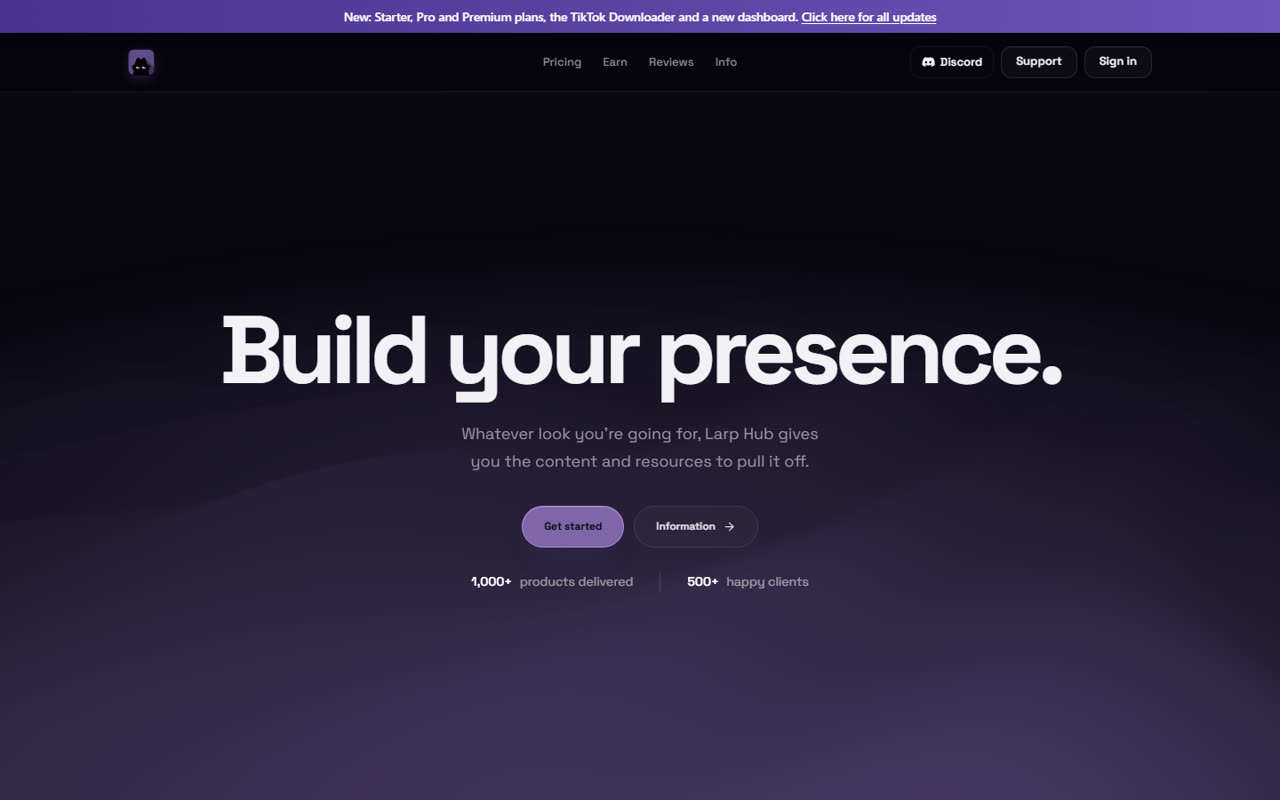
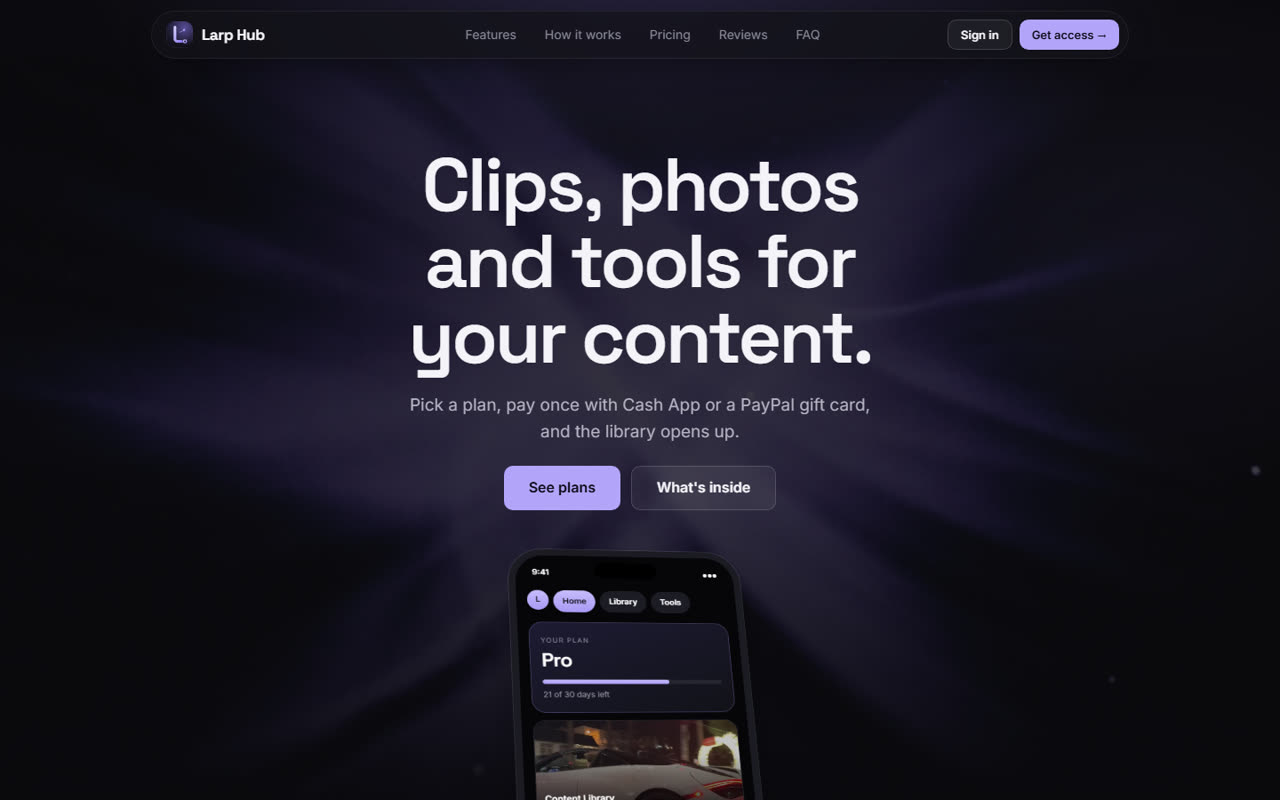
Expand about, remove age, add busy note and contact form (not live yet), update Larp Hub screenshot

diff --git a/index.html b/index.html
@@ -101,6 +101,32 @@ section{padding:96px 0}
 .orders .btn{border-color:var(--paper);background:var(--paper);color:var(--ink)}
 .orders .btn:hover{background:#e6e4dd}
 
+/* contact + form */
+.contact{display:grid;grid-template-columns:.85fr 1.15fr;gap:48px;margin-top:70px;align-items:start}
+.cinfo h2{font-size:clamp(2.2rem,4.6vw,3.4rem);line-height:1.02;letter-spacing:-.02em;margin:14px 0 16px}
+.cinfo h2 em{font-style:italic;color:var(--mute)}
+.cinfo p{color:#3a3936;margin-bottom:24px}
+.note{margin-top:28px;padding:18px 20px;border:1px solid var(--line);border-radius:16px;background:var(--card);color:var(--mute);font-size:.9rem}
+.note b{display:block;color:var(--ink);font-weight:600;margin-bottom:4px}
+.cform{background:var(--card);border:1px solid var(--line);border-radius:24px;padding:30px;display:grid;gap:18px;position:relative}
+.live{display:inline-flex;align-items:center;gap:8px;justify-self:start;padding:6px 12px;border-radius:999px;background:var(--soft);color:var(--mute)}
+.live i{width:7px;height:7px;border-radius:50%;background:#c58b1c}
+.cform .grid{display:grid;grid-template-columns:1fr 1fr;gap:18px}
+.cform label{display:block;font-size:.88rem;font-weight:500}
+.cform label input,.cform label select,.cform label textarea{display:block;margin-top:7px}
+.cform label span{color:#b4462f}
+.cform input,.cform select,.cform textarea{width:100%;font:inherit;font-weight:400;font-size:.95rem;color:var(--ink);background:var(--paper);border:1px solid var(--line);border-radius:12px;padding:12px 14px;outline:0;transition:border-color .15s,background .15s}
+.cform textarea{resize:vertical;min-height:52px}
+.cform input:focus,.cform select:focus,.cform textarea:focus{border-color:var(--ink);background:#fff}
+.cform .bad{border-color:#b4462f}
+.biz{display:grid;gap:18px;padding:18px;border:1px dashed var(--line);border-radius:16px}
+.biz[hidden]{display:none}
+.ferr{color:#b4462f;font-size:.86rem;min-height:1.2em;margin:-6px 0}
+.cform button{justify-self:start}
+.fdone{padding:20px;border-radius:16px;background:var(--soft)}
+.fdone b{display:block;font-weight:600}
+.fdone p{color:var(--mute);margin:6px 0 16px;font-size:.92rem}
+
 footer{padding:40px 0 50px;color:var(--mute);font-size:.86rem}
 footer .wrap{display:flex;justify-content:space-between;gap:20px;flex-wrap:wrap;border-top:1px solid var(--line);padding-top:28px}
 footer nav{display:flex;gap:22px}
@@ -111,7 +137,8 @@ footer a:hover{color:var(--ink)}
 
 @media(max-width:860px){
   .links{display:none}
-  .hero,.about,.work{grid-template-columns:1fr}
+  .hero,.about,.work,.contact{grid-template-columns:1fr}
+  .contact{gap:32px;margin-top:50px}
   .hero{gap:36px}
   .portrait{max-width:320px}
   .do{grid-template-columns:1fr}
@@ -123,6 +150,8 @@ footer a:hover{color:var(--ink)}
   .stats div+div{border-left:0;border-top:1px solid var(--line)}
   .stats div{padding:24px 4px}
   .nav .btn{padding:9px 14px;font-size:.84rem}
+  .cform{padding:20px}
+  .cform .grid{grid-template-columns:1fr}
 }
 @media(prefers-reduced-motion:reduce){*{transition:none!important}.rv{opacity:1;transform:none}html{scroll-behavior:auto}}
 </style>
@@ -157,17 +186,18 @@ footer a:hover{color:var(--ink)}
 
   <div class="wrap stats rv">
     <div><b>2 years</b><span>of experience in the web space</span></div>
-    <div><b>Age 15</b><span>when I ran my first business</span></div>
-    <div><b>$10,000+</b><span>generated by that business</span></div>
+    <div><b>$10,000+</b><span>generated by a business I ran</span></div>
+    <div><b>Multiple</b><span>websites in progress right now</span></div>
   </div>
 
   <section id="about">
     <div class="wrap about rv">
       <div><span class="mono dim">About</span><h2 class="serif">A builder <em>first.</em></h2></div>
       <div class="body">
-        <p>I've spent the last two years working on the web: designing sites, writing code and building brands. Everything I make is built from scratch, without templates.</p>
-        <p>I started early. At 15 I was running my own business, and it generated over $10,000. That taught me what a website actually needs to do for a brand: look right, load fast and bring people in.</p>
-        <p>Today I work across websites, code and brand growth, and I run Larp Hub.</p>
+        <p>I've spent the last two years working on the web: designing sites, writing code and building brands. Everything I make is built from scratch, without templates, so each project fits the brand it's for.</p>
+        <p>Before this, I ran my own business, and it generated over $10,000. Running it taught me what a website actually needs to do for a brand: look right, load fast, earn trust and bring people in. I build with that in mind.</p>
+        <p>I do a lot of different things. Design, front-end and back-end code, the systems behind a brand, and the growth side once it's live. I'd rather understand the whole picture than hand off half of it.</p>
+        <p>Right now I'm in the middle of creating multiple websites, including my own brand, Larp Hub. My schedule is busy and I keep it strict, so I take on new work carefully and only when I can give it proper attention.</p>
       </div>
     </div>
   </section>
@@ -191,8 +221,8 @@ footer a:hover{color:var(--ink)}
         <div>
           <span class="mono dim">Brand / larphub.tech</span>
           <h3>Larp Hub</h3>
-          <p>A content platform with a photo and video library, prompts, tools and a private community.</p>
-          <ul><li>Designed and built from scratch</li><li>Dashboard, libraries and tools</li><li>Run and grown by me</li></ul>
+          <p>Clips, photos and tools for content creators, with simple plans and a members' dashboard.</p>
+          <ul><li>Designed and built from scratch</li><li>Plans, dashboard, library and tools</li><li>Run and grown by me</li></ul>
           <a class="btn line" href="https://larphub.tech" target="_blank" rel="noopener">Visit larphub.tech &#8599;</a>
         </div>
       </div>
@@ -205,9 +235,95 @@ footer a:hover{color:var(--ink)}
         <div>
           <span class="mono">Website orders</span>
           <h2 class="serif">Not open yet. <em>Coming soon.</em></h2>
-          <p>I'm not selling websites right now, but I will be. Reach out on Discord if you'd like to be first to know when orders open.</p>
+          <p>I'm not selling websites right now, but I will be. I'm currently building multiple websites, so my time is limited and my schedule is strict.</p>
         </div>
-        <a class="btn" href="https://discord.com/users/1495161901330464801" target="_blank" rel="noopener">Message me on Discord &#8599;</a>
+        <a class="btn" href="#form">Fill out the contact form &#8595;</a>
+      </div>
+
+      <div class="contact" id="form">
+        <div class="cinfo">
+          <span class="mono dim">Contact</span>
+          <h2 class="serif">Let's <em>talk.</em></h2>
+          <p>I'm mainly on Discord. It's the only way to reach me directly right now. If you'd rather start with details, fill out the form and we can talk from there.</p>
+          <a class="btn dark" href="https://discord.com/users/1495161901330464801" target="_blank" rel="noopener">Message me on Discord &#8599;</a>
+          <div class="note"><b>Before you send</b>The more detail you give, the faster I can tell you if it's a fit. I review every request, but with my current schedule I can't take on everything.</div>
+        </div>
+
+        <form class="cform" id="cform" novalidate>
+          <div class="live mono"><i></i>Form not live yet</div>
+          <div class="grid">
+            <label>Your name<input name="name" autocomplete="name" placeholder="Full name or brand name"></label>
+            <label>Discord username <span>*</span><input name="discord" required placeholder="So I can reach you"></label>
+          </div>
+          <label>Who is this website for? <span>*</span>
+            <select name="who" id="who" required>
+              <option value="">Choose one</option>
+              <option>Myself / personal project</option>
+              <option>A business (for-profit)</option>
+              <option>A non-profit organization</option>
+            </select>
+          </label>
+          <div class="biz" id="biz" hidden>
+            <div class="grid">
+              <label>Business name<input name="business" placeholder="Registered or trading name"></label>
+              <label>Your role<input name="role" placeholder="Owner, founder, manager..."></label>
+            </div>
+            <label>Annual revenue
+              <select name="revenue">
+                <option value="">Choose a range</option>
+                <option>Not making revenue yet</option>
+                <option>Under $10,000</option>
+                <option>$10,000 – $100,000</option>
+                <option>$100,000 – $1,000,000</option>
+                <option>$1,000,000 – $10,000,000</option>
+                <option>$10,000,000+</option>
+              </select>
+            </label>
+            <label>Current website, if any<input name="current" placeholder="https://"></label>
+          </div>
+          <label>What type of website do you need? <span>*</span>
+            <select name="type" required>
+              <option value="">Choose one</option>
+              <option>Business / company website</option>
+              <option>Online store</option>
+              <option>Portfolio / personal site</option>
+              <option>Landing page</option>
+              <option>Web app or dashboard</option>
+              <option>Something else</option>
+            </select>
+          </label>
+          <label>Examples of sites you like<textarea name="examples" rows="2" placeholder="Paste links to websites you like and say what you like about them"></textarea></label>
+          <label>Tell me about the project <span>*</span><textarea name="details" rows="4" required placeholder="What it's for, who it's for, pages you need, anything important"></textarea></label>
+          <div class="grid">
+            <label>What do you want to spend? <span>*</span>
+              <select name="budget" required>
+                <option value="">Choose a range</option>
+                <option>Under $250</option>
+                <option>$250 – $1,000</option>
+                <option>$1,000 – $5,000</option>
+                <option>$5,000 – $15,000</option>
+                <option>$15,000+</option>
+                <option>Not sure yet</option>
+              </select>
+            </label>
+            <label>When do you need it?
+              <select name="timeline">
+                <option value="">Choose one</option>
+                <option>Within a month</option>
+                <option>1 – 3 months</option>
+                <option>3+ months</option>
+                <option>Flexible</option>
+              </select>
+            </label>
+          </div>
+          <p class="ferr" id="ferr"></p>
+          <button class="btn dark" type="submit">Send request</button>
+          <div class="fdone" id="fdone" hidden>
+            <b>Thanks. The form isn't live yet.</b>
+            <p>Nothing was sent. For now, message me on Discord and paste your answers. <span id="copied"></span></p>
+            <a class="btn dark" href="https://discord.com/users/1495161901330464801" target="_blank" rel="noopener">Open Discord &#8599;</a>
+          </div>
+        </form>
       </div>
     </div>
   </section>
@@ -251,6 +367,33 @@ fetch("https://api.lanyard.rest/v1/users/" + ID).then(r => r.json()).then(j => j
   };
   ws.onclose = () => { clearInterval(hb); setTimeout(() => connect(Math.min(retry * 2, 30000)), retry); };
 })();
+
+/* contact form: validates and shows a "not live yet" notice. nothing is sent anywhere. */
+const form = $("cform"), who = $("who"), biz = $("biz");
+who.addEventListener("change", () => { biz.hidden = who.value !== "A business (for-profit)"; });
+form.addEventListener("submit", async e => {
+  e.preventDefault();
+  let bad = null;
+  form.querySelectorAll("[required]").forEach(f => {
+    const empty = !f.value.trim();
+    f.classList.toggle("bad", empty);
+    if (empty && !bad) bad = f;
+  });
+  if (bad) { $("ferr").textContent = "Please fill in the required fields."; bad.focus(); return; }
+  $("ferr").textContent = "";
+  const lines = [];
+  form.querySelectorAll("input,select,textarea").forEach(f => {
+    if (f.closest("[hidden]") || !f.value.trim()) return;
+    const label = f.closest("label").childNodes[0].textContent.trim();
+    lines.push(label + ": " + f.value.trim());
+  });
+  let copied = false;
+  try { await navigator.clipboard.writeText(lines.join("\n")); copied = true; } catch (_) {}
+  $("copied").textContent = copied ? "Your answers have been copied so you can paste them." : "";
+  form.querySelector("button[type=submit]").hidden = true;
+  $("fdone").hidden = false;
+});
+form.addEventListener("input", e => { if (e.target.classList.contains("bad") && e.target.value.trim()) e.target.classList.remove("bad"); });
 
 /* visit counter */
 (async () => {
